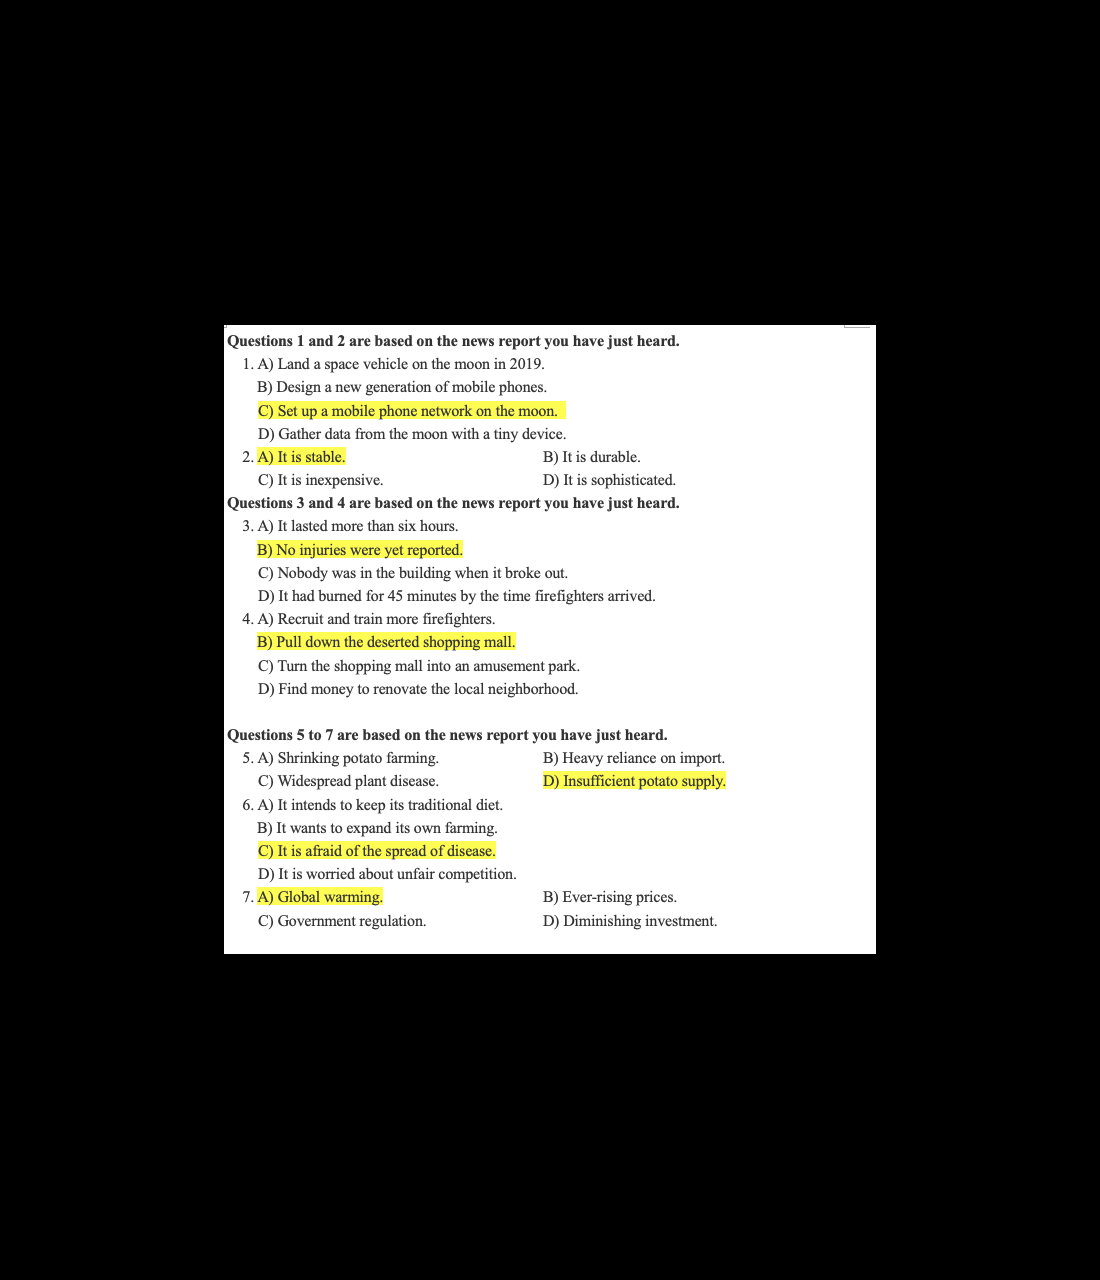
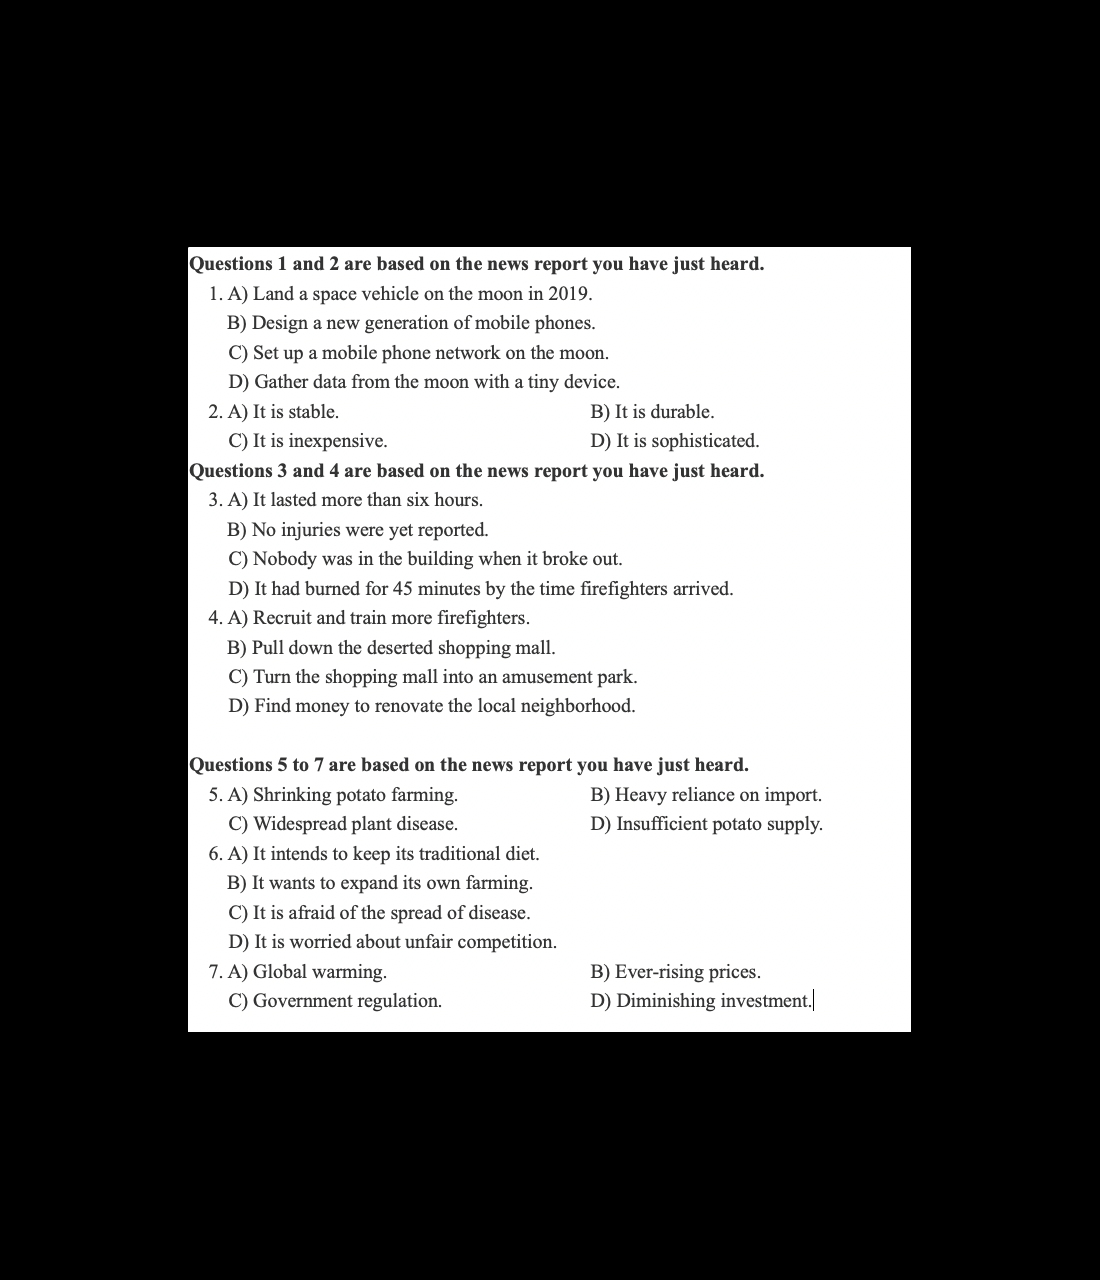
增加了2015的题库

Changed region(s): [[0.1545, 0.1875, 0.8345, 0.8125]]

diff --git a/English_bigin.py b/English_bigin.py
@@ -105,4 +105,5 @@ if __name__ == '__main__':
     # for item in a:
     #     print(item)
     #     process_image('images/' + item)
-    # process_image('images/19.png')
+    # process_image('images/33.png')
+    # process_image('images/34.png')
